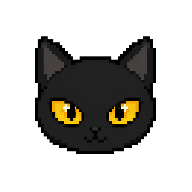
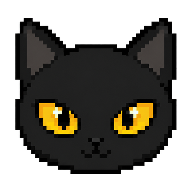
Add files via upload

diff --git a/service-worker.js b/service-worker.js
@@ -1,4 +1,4 @@
-const CACHE_NAME = 'nako-toolbox-v16-single-name-icon-fix';
+const CACHE_NAME = 'nako-toolbox-v17-icon-restore';
 const ASSETS = [
   './',
   './index.html',
@@ -11,8 +11,8 @@ const ASSETS = [
   './assets/js/name-replacer.js?v=16',
   './assets/js/word-replacer.js',
   './assets/images/dana-dashboard.jpg',
-  './icons/icon-192.png?v=16',
-  './icons/icon-512.png?v=16'
+  './icons/icon-192.png?v=17',
+  './icons/icon-512.png?v=17'
 ];
 
 self.addEventListener('install', event => {